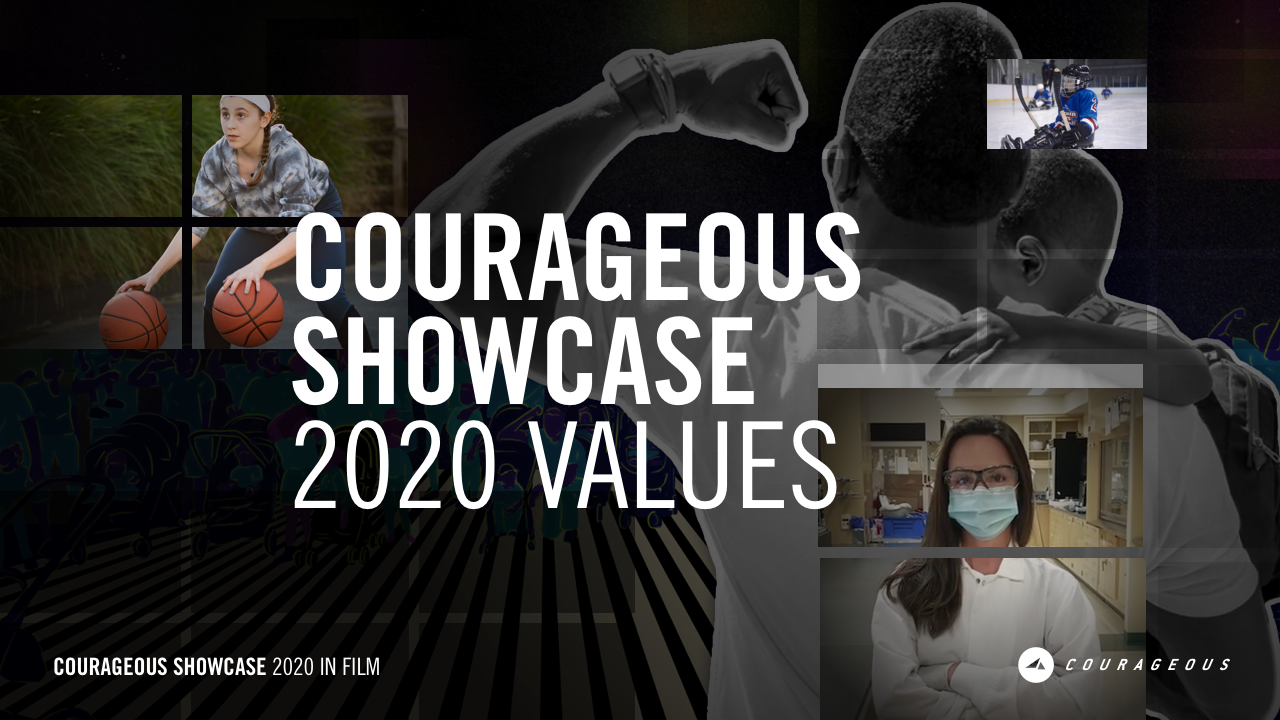
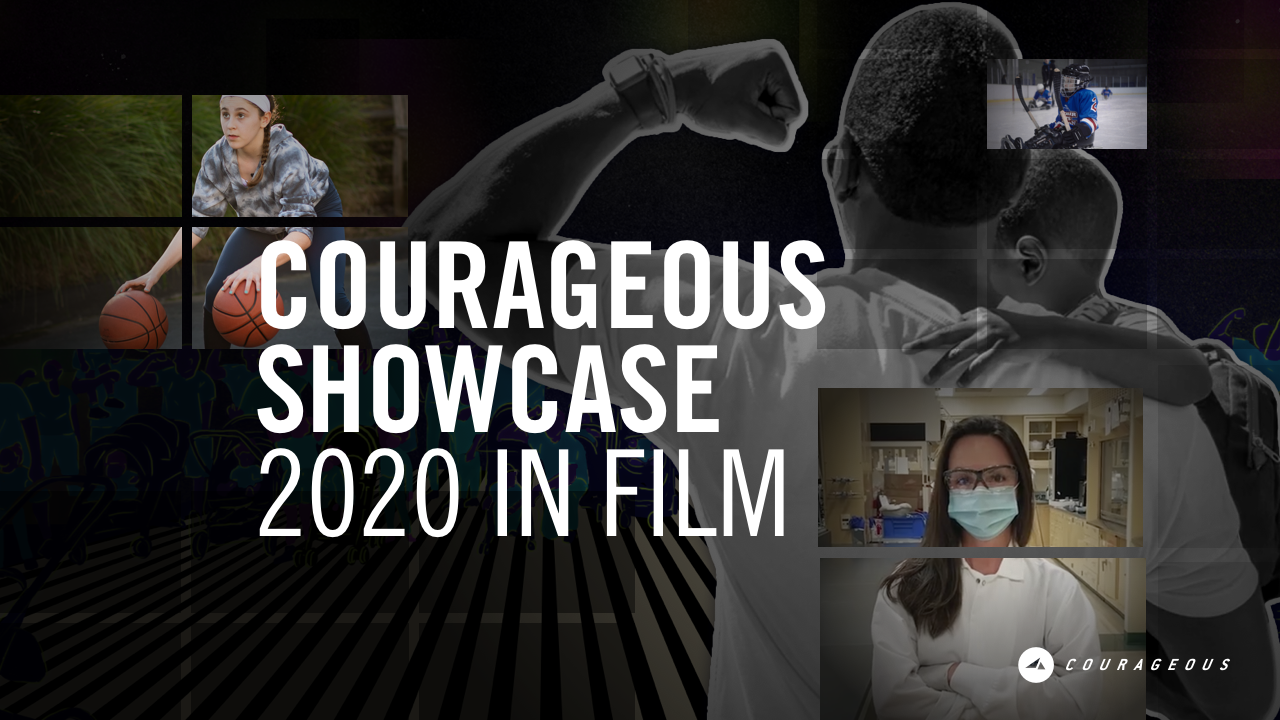
Update hompage image and system fonts

diff --git a/src/App.js b/src/App.js
@@ -88,34 +88,39 @@ function App() {
   function pickVideoPage2() {}
 
   return (
-    <div className="App">
-      <Header setCurrentPage={setCurrentPage} />
+    <HelmetProvider>
+      {/* <BrowserRouter> */}
+      <div className="App">
+        <Header setCurrentPage={setCurrentPage} />
+        {/* {pickVideoPage()} */}
 
-      <Switch>
-        <Route exact path="/" key={12}>
-          <Homepage
-            setCurrentPage={setCurrentPage}
-            shuffled={shuffled}
-            data={data}
-            shuffledData={shuffledData}
-          />
-        </Route>
-        {shuffledData.map((item, i) => (
-          <Route exact path={`/${item.theme}`} key={i}>
-            <Video
-              url={url}
-              shuffledData={shuffledData}
-              data={shuffledData[i]}
-              allData={data}
-              currentPage={currentPage}
-              value={i}
+        <Switch>
+          <Route exact path="/" key={12}>
+            <Homepage
               setCurrentPage={setCurrentPage}
+              shuffled={shuffled}
+              data={data}
+              shuffledData={shuffledData}
             />
           </Route>
-        ))}
-      </Switch>
-      <Footer currentPage={currentPage} />
-    </div>
+          {shuffledData.map((item, i) => (
+            <Route exact path={`/${item.theme}`} key={i}>
+              <Video
+                url={url}
+                shuffledData={shuffledData}
+                data={shuffledData[i]}
+                allData={data}
+                currentPage={currentPage}
+                value={i}
+                setCurrentPage={setCurrentPage}
+              />
+            </Route>
+          ))}
+        </Switch>
+        <Footer currentPage={currentPage} />
+      </div>
+      {/* </BrowserRouter> */}
+    </HelmetProvider>
   );
 }
 

diff --git a/src/styles/Video.scss b/src/styles/Video.scss
@@ -42,7 +42,7 @@
         border-radius: 0px;
         border: none;
         text-transform: uppercase;
-        font-family: "Trade Gothic Bold Condensed";
+        font-family: "Trade Gothic Bold Condensed", sans-serif;
         font-size: 16px;
         color: black;
         letter-spacing: 0.36px;
@@ -108,7 +108,7 @@
       }
 
       .brand {
-        font-family: "Lato Light";
+        font-family: "Lato Light", sans-serif;
         font-size: 16px;
         color: white;
         letter-spacing: 0.53px;
@@ -132,7 +132,7 @@
         background-color: white;
         color: black;
         text-transform: uppercase;
-        font-family: "Trade Gothic Bold Condensed";
+        font-family: "Trade Gothic Bold Condensed", sans-serif;
         font-size: 16px;
         align-self: flex-start;
         border: none;
@@ -167,7 +167,7 @@
         }
 
         .title {
-          font-family: "Lato Black";
+          font-family: "Lato Black", sans-serif;
           font-size: 36px;
           color: white;
           letter-spacing: 0.8px;
@@ -194,7 +194,7 @@
 
         .right {
           width: 500px;
-          font-family: "Lato Light";
+          font-family: "Lato Light", sans-serif;
           font-size: 18px;
           color: white;
           letter-spacing: 0.4px;
@@ -256,7 +256,7 @@
       }
 
       p {
-        font-family: "Trade Gothic Bold Condensed";
+        font-family: "Trade Gothic Bold Condensed", sans-serif;
         font-size: 36px;
         letter-spacing: -0.4px;
         color: white;

diff --git a/src/components/Video.js b/src/components/Video.js
@@ -32,14 +32,14 @@ function Video(props) {
 
   return (
     <section className="video">
-      {/* <MetaDecorator
+      <MetaDecorator
         title={`${props.data.theme} | Courageous Showcase`}
         description={props.data.description}
         image={props.data.preview}
         video={props.data.loop}
         url={`/${props.data.theme.toLowerCase()}`}
-      /> */}
-      <Helmet>
+      />
+      {/* <Helmet>
         <title>{props.data.title}</title>
         <meta name="description" content={props.data.description} />
         <meta property="og:title" content={props.data.title} />
@@ -47,7 +47,7 @@ function Video(props) {
         <meta property="og:image" content={props.data.image} />
         <meta property="og:url" content={props.url} />
         {props.video && <meta property="og:video" content={props.video} />}
-      </Helmet>
+      </Helmet> */}
       <div className="player-wrapper">
         <div className="overlay">
           <video

diff --git a/src/styles/Homepage.scss b/src/styles/Homepage.scss
@@ -14,7 +14,7 @@
     }
 
     h1 {
-      font-family: "Trade Gothic Bold Condensed";
+      font-family: "Trade Gothic Bold Condensed", sans-serif;
       font-size: 180px;
       color: white;
       letter-spacing: -6.71px;
@@ -44,7 +44,7 @@
     }
 
     p {
-      font-family: "Lato Light";
+      font-family: "Lato Light", sans-serif;
       font-size: 18px;
       color: white;
       letter-spacing: 0.4px;
@@ -357,7 +357,7 @@
 
           .title {
             text-align: left;
-            font-family: "Lato Regular";
+            font-family: "Lato Regular", sans-serif;
 
             @media screen and (max-width: $tablet) {
               max-width: 60vw;
@@ -365,7 +365,7 @@
           }
 
           .brand {
-            font-family: "Lato Light";
+            font-family: "Lato Light", sans-serif;
             text-transform: uppercase;
             text-align: right;
             color: #bebebe;

diff --git a/src/components/MetaDecorator.js b/src/components/MetaDecorator.js
@@ -1,15 +1,15 @@
 import React from "react";
 
-import { Helmet } from "react-helmet";
+import { Helmet } from "react-helmet-async";
 
 const MetaDecorator = (props) => {
   return (
     <Helmet>
       <title>{props.title}</title>
-      <meta name="description" content={props.data.description} />
-      <meta property="og:title" content={props.data.title} />
-      <meta property="og:description" content={props.data.description} />
-      <meta property="og:image" content={props.data.image} />
+      <meta name="description" content={props.description} />
+      <meta property="og:title" content={props.title} />
+      <meta property="og:description" content={props.description} />
+      <meta property="og:image" content={props.image} />
       <meta property="og:url" content={props.url} />
       {props.video && <meta property="og:video" content={props.video} />}
     </Helmet>

diff --git a/src/components/Homepage.js b/src/components/Homepage.js
@@ -6,7 +6,7 @@ import MetaDecorator from "./MetaDecorator";
 export default function Homepage(props) {
   return (
     <section className="homepage">
-      {/* <MetaDecorator
+      <MetaDecorator
         title="Courageous Showcase"
         description="Time and again, 2020 has challenged us to be more agile in our
         approach to telling brands' stories, prioritizing safety without
@@ -15,7 +15,7 @@ export default function Homepage(props) {
         Studios. We're proud to share each and every one with you as we fix
         our gaze on the horizon, to the year that lies ahead."
         image={preview}
-      /> */}
+      />
       <div className="header">
         <h1>2020 in film</h1>
         <p>

diff --git a/src/styles/Header.scss b/src/styles/Header.scss
@@ -17,7 +17,7 @@ header {
     text-transform: uppercase;
     font-size: 24px;
     line-height: 24px;
-    font-family: "Trade Gothic Bold Condensed";
+    font-family: "Trade Gothic Bold Condensed", sans-serif;
     margin-left: 15px;
     cursor: default;
     color: rgba(255, 255, 255, 1);

diff --git a/src/styles/Footer.scss b/src/styles/Footer.scss
@@ -67,11 +67,11 @@ footer {
     }
 
     .last {
-      font-family: "Trade Gothic";
+      font-family: "Trade Gothic", sans-serif;
     }
 
     .first {
-      font-family: "Trade Gothic Bold Condensed";
+      font-family: "Trade Gothic Bold Condensed", sans-serif;
     }
   }
 }

diff --git a/src/styles/HamburgerMenu.scss b/src/styles/HamburgerMenu.scss
@@ -34,7 +34,7 @@
     a {
       font-size: 24px;
       line-height: 16px;
-      font-family: "Trade Gothic Bold Condensed";
+      font-family: "Trade Gothic Bold Condensed", sans-serif;
       margin-bottom: 24px;
       text-transform: uppercase;
       text-decoration: none;

diff --git a/src/styles/Links.scss b/src/styles/Links.scss
@@ -100,7 +100,7 @@
 
         .title,
         .brand {
-          font-family: "Lato Light";
+          font-family: "Lato Light", sans-serif;
           font-size: 18px;
           color: white;
           letter-spacing: 0.4px;

diff --git a/public/index.html b/public/index.html
@@ -3,7 +3,6 @@
   <head>
     <!-- <meta charset="utf-8" /> -->
     <link rel="icon" href="%PUBLIC_URL%/favicon.ico" />
-
     <title>Courageous Showcase</title>
   </head>
   <body>
